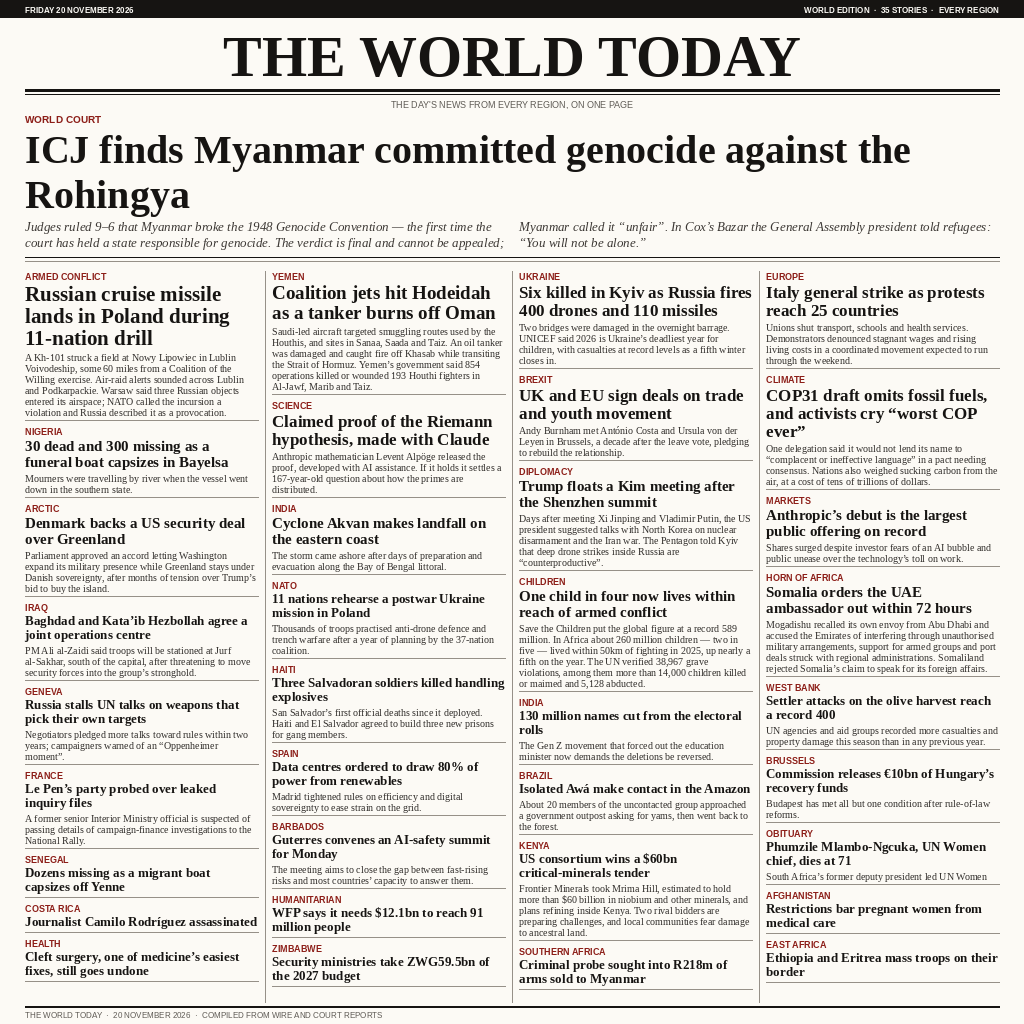
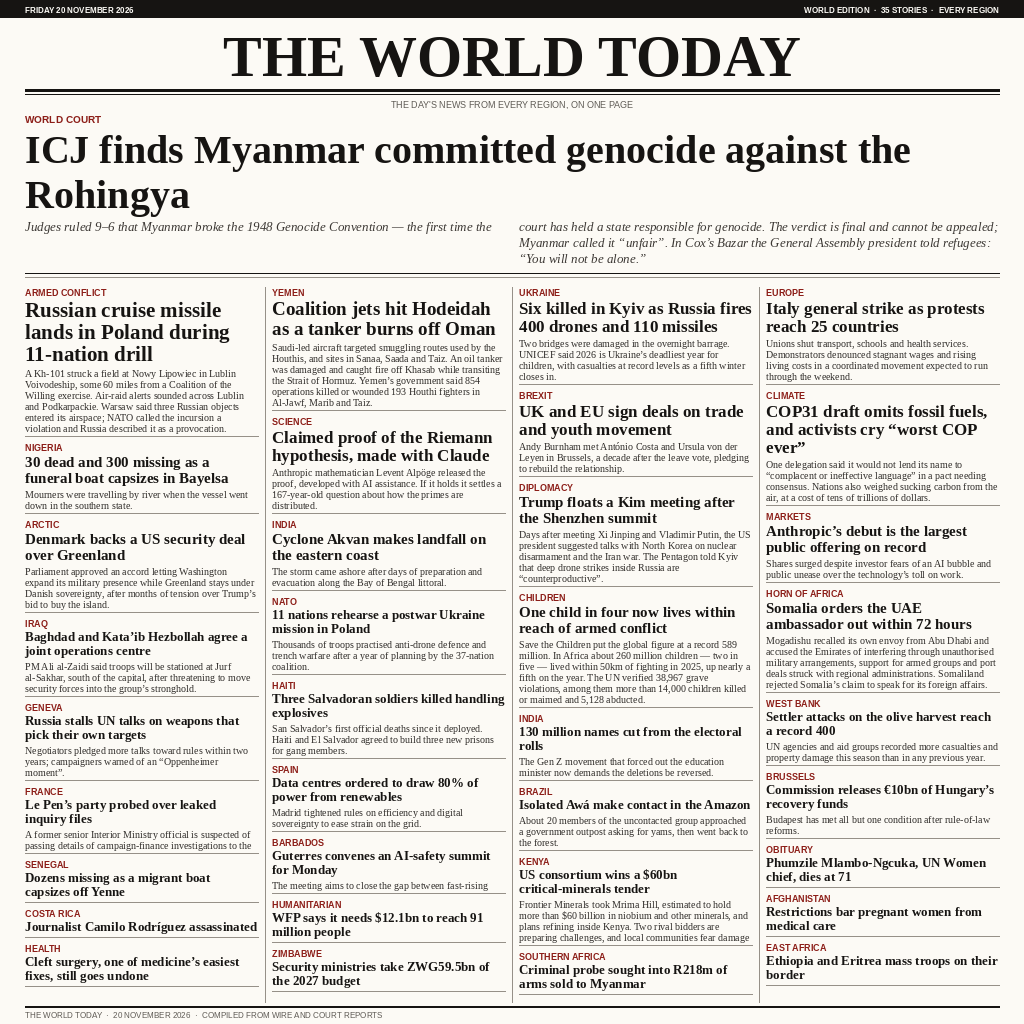
Balance the standfirst by measured width, not by line count
Splitting the deck at the halfway line can leave one half a word wider than
the other, which reads as ragged. balanced_pairs now tries every break and keeps
the one that minimises the widest half in pixels.

Changed region(s): [[0.0, 0.2188, 0.9688, 0.9688]]

diff --git a/main.py b/main.py
@@ -342,6 +342,24 @@ def masthead(d):
     return y + 14
 
 
+def balanced_pairs(lines, n, f):
+    """Split lines into `n` columns that are as even as the copy allows.
+
+    A plain half-split can leave the second column one long word wider than the
+    first, which shows as a ragged standfirst. This picks the split that
+    minimises the widest of the two, measured in pixels with font `f`.
+    """
+    if n < 2 or len(lines) < 2:
+        return [lines[i::n] for i in range(n)]
+    best, best_w = None, None
+    for cut in range(1, len(lines)):
+        halves = [lines[:cut], lines[cut:]]
+        widest = max(max((f.getlength(l) for l in h), default=0) for h in halves)
+        if best_w is None or widest < best_w:
+            best, best_w = halves, widest
+    return best
+
+
 def lead(d, y):
     """The full-width lead story. Returns the y below its deck."""
     head_f = face(SERIF_B, 40)
@@ -357,11 +375,12 @@ def lead(d, y):
     # the deck reads as two balanced halves, like a real standfirst
     deck_w = (PAGE - 2 * MARGIN - GUTTER) // 2
     lines = fold(LEAD_DECK, deck_f, deck_w)
-    half = (len(lines) + 1) // 2
-    for i, line in enumerate(lines):
-        col, row = (0, i) if i < half else (1, i - half)
-        d.text((MARGIN + col * (deck_w + GUTTER), y + row * 16), line, font=deck_f, fill=(60, 56, 52))
-    y += half * 16 + 6
+    halves = balanced_pairs(lines, 2, deck_f)
+    for col, part in enumerate(halves):
+        for row, line in enumerate(part):
+            d.text((MARGIN + col * (deck_w + GUTTER), y + row * 16), line,
+                   font=deck_f, fill=(60, 56, 52))
+    y += max(len(h) for h in halves) * 16 + 6
 
     d.line([(MARGIN, y), (PAGE - MARGIN, y)], fill=INK, width=1)
     y += 4
